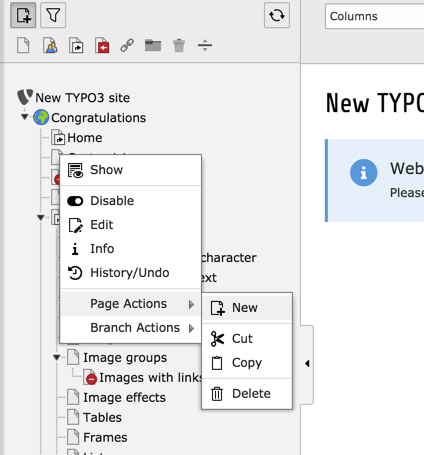
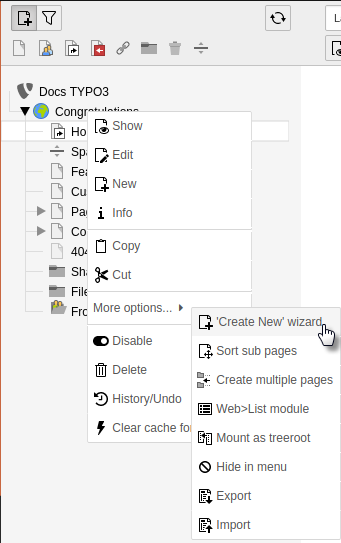
Updated creating pages page

diff --git a/Documentation/Pages/CreatingPages/Index.rst b/Documentation/Pages/CreatingPages/Index.rst
@@ -9,7 +9,7 @@ Create Pages
 
 There are two main ways to add a new page to your site.
 
-First make sure that you currently are in a **WEB** module
+First make sure that you currently are in a **Web** module
 so that you see the page tree.
 
 
@@ -18,27 +18,27 @@ so that you see the page tree.
 Adding pages within the page tree
 =================================
 
-As we saw before, you can create a new page by dragging and
-dropping a page type from the top of the page tree.
+You can create a new page by dragging and dropping a page type from the top of
+the page tree.
 
 .. figure:: ../../Images/PageCreateDragDrop.png
    :alt: Creating a page using drag and drop
-
+   :class: with-border
 
 #. Choose a page type by selecting one of the icons (here a standard page,
-   see the :ref:`Page types chapter <pages-types>`).
+   see :ref:`Page types <pages-types>`).
 
-#. Drop the icon either between two existing pages (will create a sibling)
-   or on an existing page (will create a child).
+#. Drop the icon either between two existing pages (to create a sibling)
+   or on an existing page (to create a child).
 
-#. Insert a title for the new page
+#. Type a title for the new page.
 
-.. figure:: ../../Images/PageCreateTitle.png
-   :alt: Inserting a page title
+   .. figure:: ../../Images/PageCreateTitle.png
+      :alt: Inserting a page title
+      :class: with-border
 
-
-A new page is disabled by default. To enable a page, use the context menu or
-the page properties.
+New pages are disabled by default. Use the context menu or the page properties
+to enable a page.
 
 
 .. _pages-creating-context:
@@ -46,34 +46,29 @@ the page properties.
 Adding pages with the context menu
 ==================================
 
-Click on the icon of any existing page and choose
-"Page Actions > New" from the context menu.
+#. Right-click any existing page and choose :guilable:`More options > 'Create
+   New' Wizard" from the context menu.
 
-.. figure:: ../../Images/PageCreateContextMenu.png
-   :alt: Creating pages with context menu
+   .. figure:: ../../Images/PageCreateContextMenu.png
+      :alt: Creating pages with context menu
+      :class: with-border
 
+      The **New record** screen displays.
 
-You will be taken to the new page wizard, which asks you
-to select a position for the new page.
+#. Click an arrow in the tree to select the position where you want the new
+   page to be created.
 
-.. figure:: ../../Images/PageCreateWizard.png
-   :alt: Selecting a position for the new page using the wizard
+   .. figure:: ../../Images/PageCreateWizard.png
+      :alt: Selecting a position for the new page using the wizard
+      :class: with-border
 
+      The **Create new Page** screen displays.
 
-After selecting a position, you will be taken to the form which
-lets you define the properties of the new page. For now, let's
-just set the title which is mandatory.
+#. Type a title for the page and you may also like to go to the *Access* tab
+   and enable the page to make it visible on the frontend.
 
-.. figure:: ../../Images/PageCreateProperties.png
-   :alt: Editing the page properties
+   .. figure:: ../../Images/PageCreateEnable.png
+      :alt: Making the new page publicly visible
+      :class: with-border
 
-
-You may also want to move to the *Access* tab and
-uncheck the "Disable" box, so that your new page is visible
-in your web site.
-
-.. figure:: ../../Images/PageCreateEnable.png
-   :alt: Unchecking this box will make the page publicly visible
-
-
-More properties are explored in the :ref:`Page properties chapter <pages-properties>`.
+More page properties are explained in the :ref:`Page properties <pages-properties>` section.

diff --git a/CHANGELOG.rst b/CHANGELOG.rst
@@ -2,7 +2,9 @@
 CHANGELOG
 =========
 
-* **23/11/20** Worked on Translation page to edit it and update images. Also modified Next Steps, and removed x-ref from the TOC
+* **30/11/20** Worked on Creating pages page.
+* **23/11/20** Worked on Translation page to edit it and update images. Also
+modified Next Steps, and removed x-ref from the TOC
 * **17/11/20** More work on Page Properties. Ugh, it's bigger than Ben Hur.
 Took a break on that and moved the 'Other features' content into the Working
 with Pages content. Removed the other features because it was only one feature

diff --git a/Documentation/Pages/AddingMultiple/Index.rst b/Documentation/Pages/AddingMultiple/Index.rst
@@ -4,7 +4,7 @@
 .. _pages-multiple:
 
 =============================
-Adding Multiple Pages at Once
+Adding multiple pages at once
 =============================
 
 .. versionchanged:: 9.0
